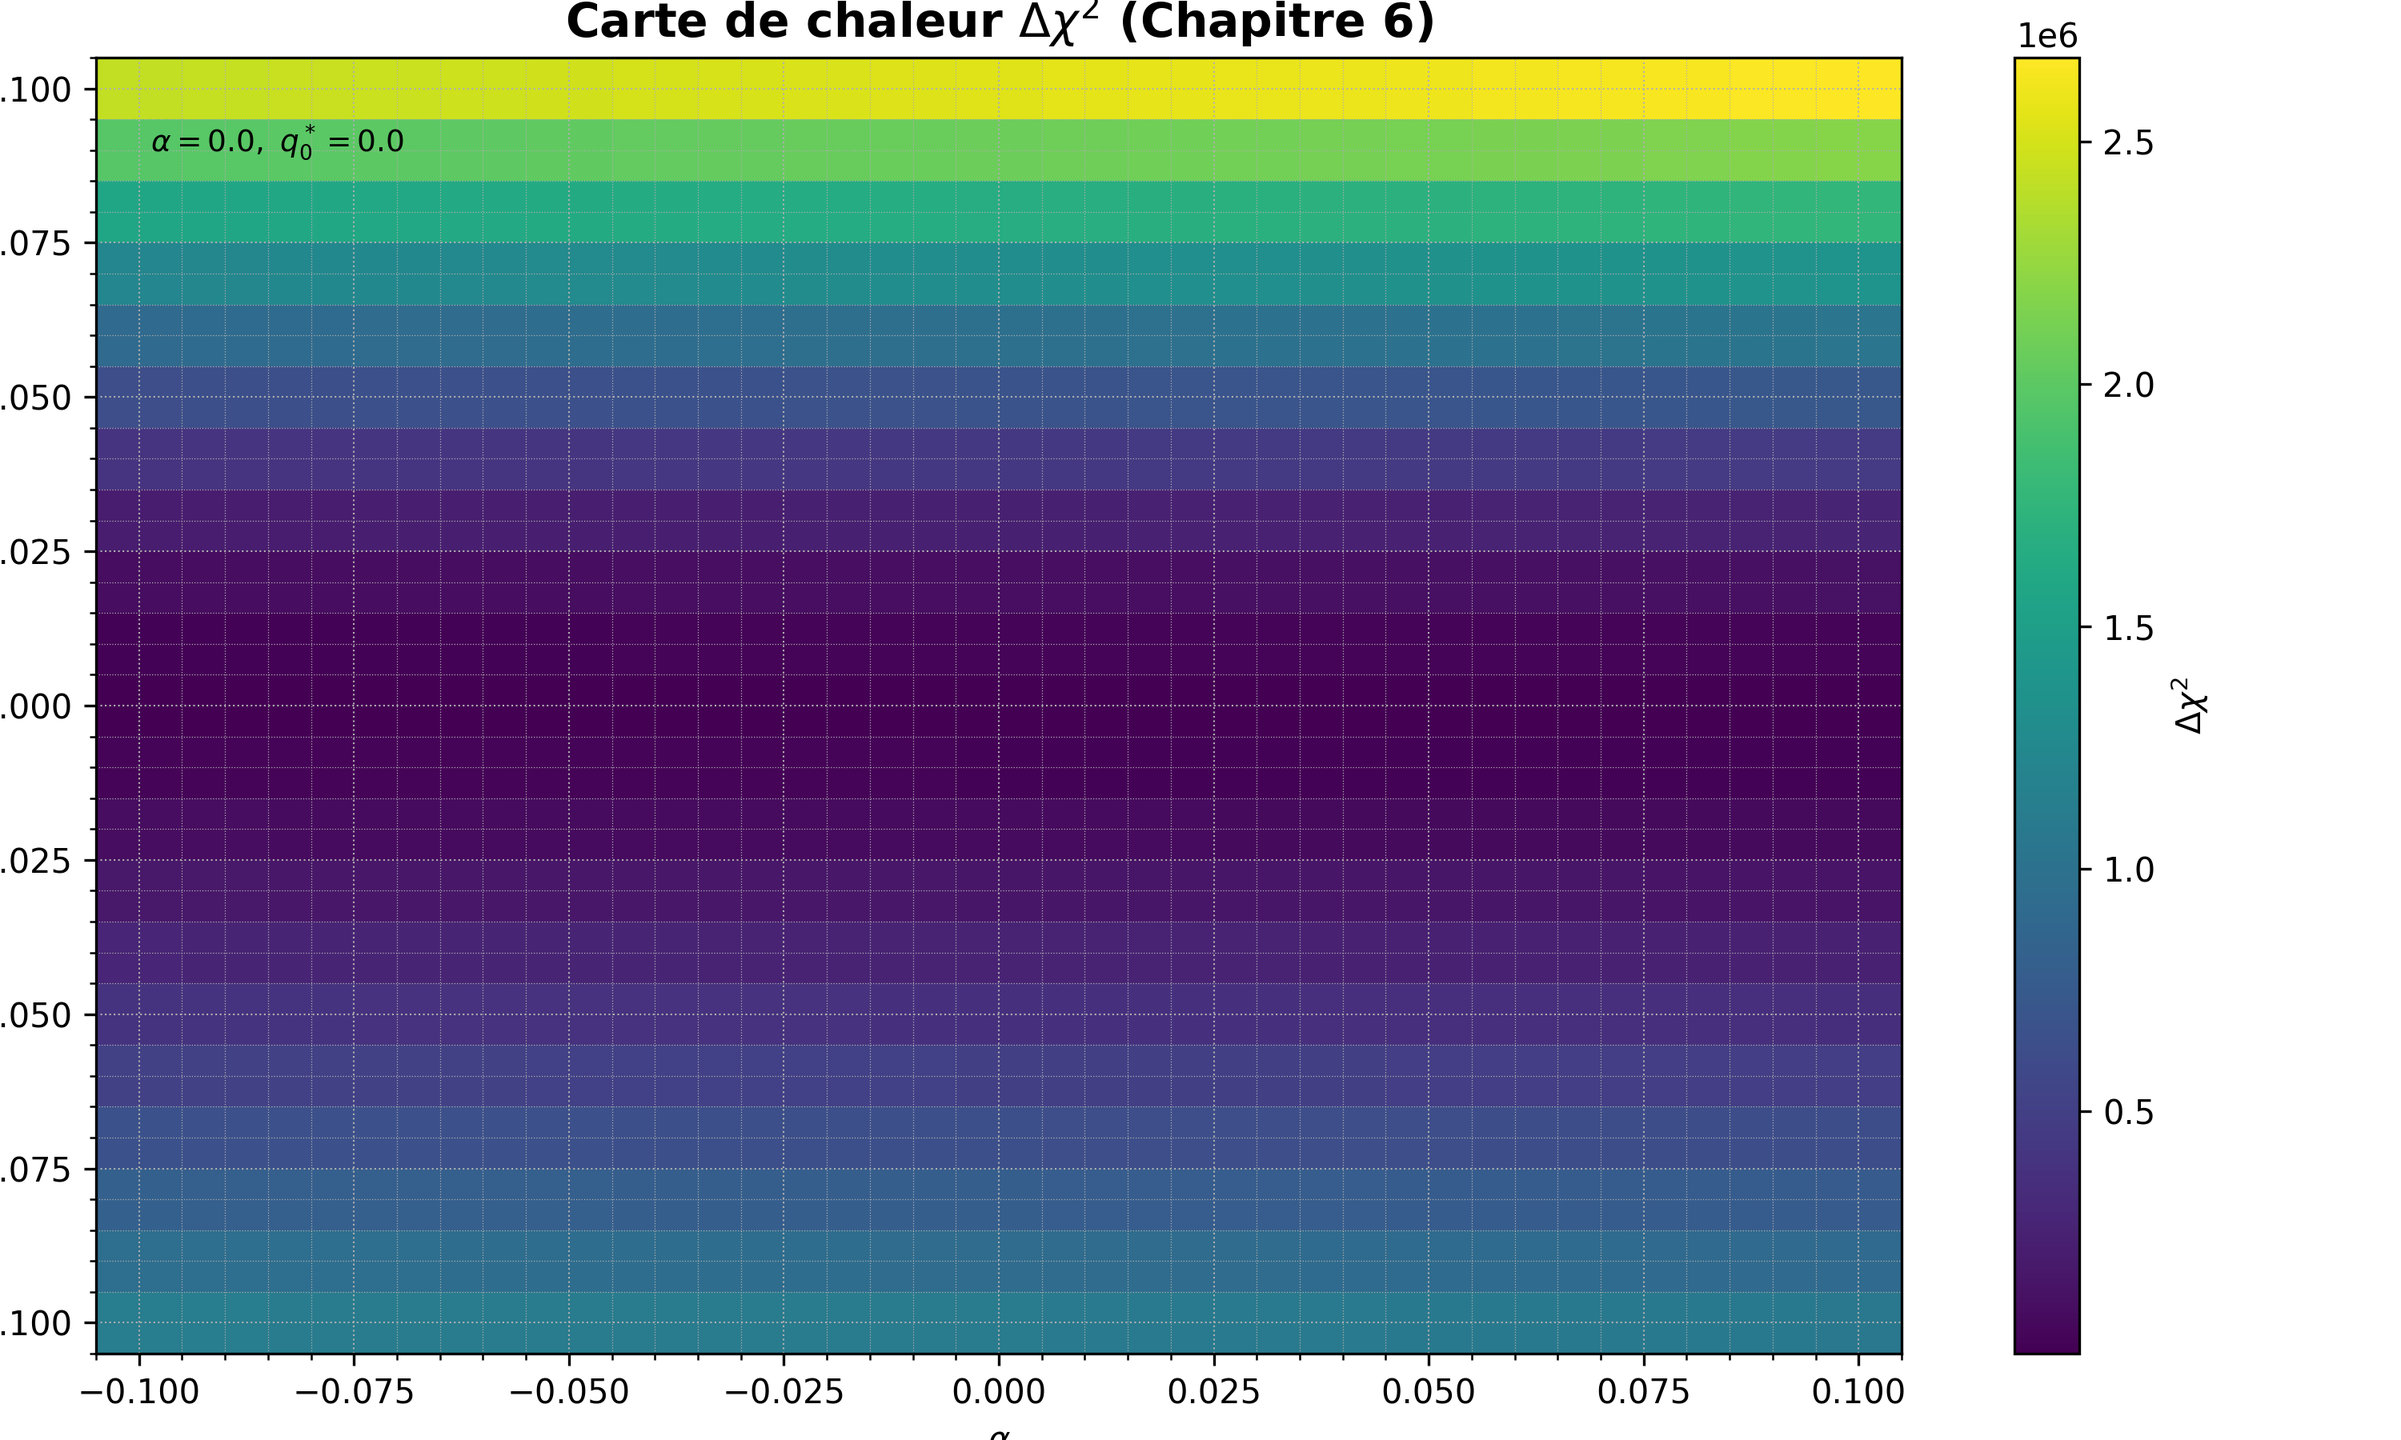
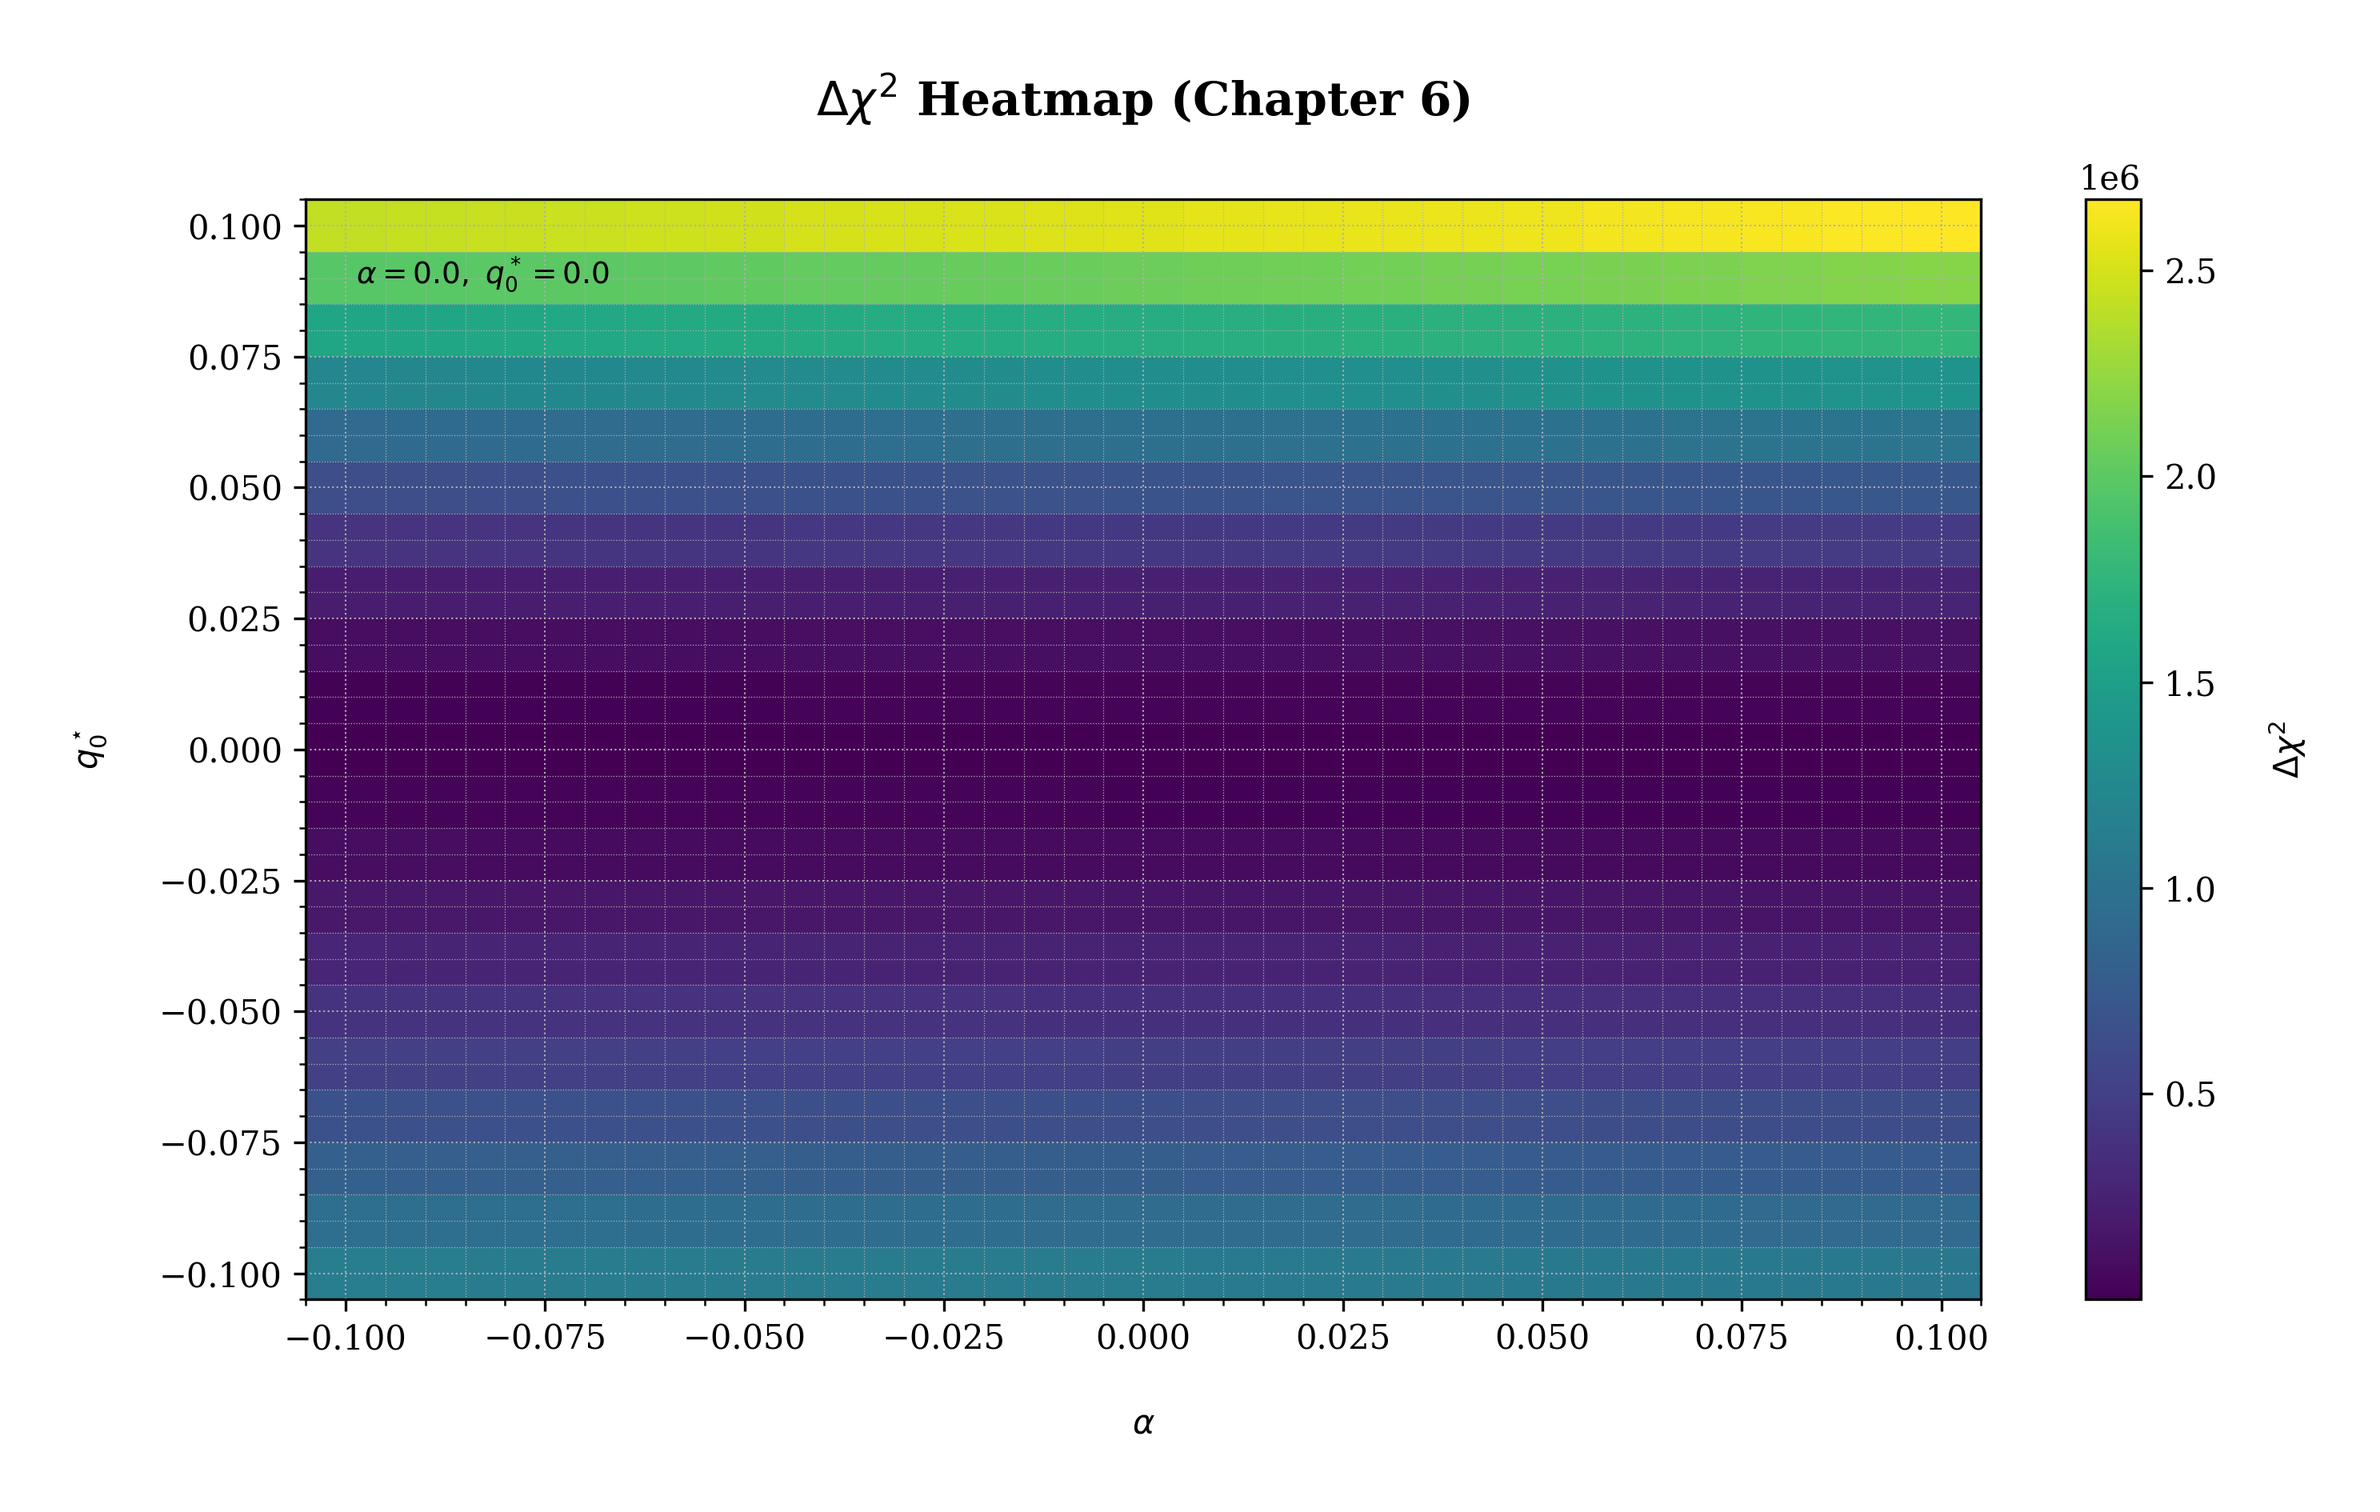
viz(ch06): standardized styling, English localization and lowercase naming

diff --git a/zz-scripts/chapter06/06_fig_02_growth_rate.py b/zz-scripts/chapter06/06_fig_02_growth_rate.py
@@ -1,8 +1,21 @@
 import hashlib
 import shutil
 import tempfile
-import matplotlib.pyplot as _plt
 from pathlib import Path as _SafePath
+
+import matplotlib.pyplot as plt
+
+plt.rcParams.update(
+    {
+        "figure.autolayout": True,
+        "figure.figsize": (10, 6),
+        "axes.titlepad": 25,
+        "axes.labelpad": 15,
+        "savefig.bbox": "tight",
+        "savefig.pad_inches": 0.3,
+        "font.family": "serif",
+    }
+)
 
 def _sha256(path: _SafePath) -> str:
     h = hashlib.sha256()
@@ -21,7 +34,7 @@ def safe_save(filepath, fig=None, **savefig_kwargs):
             if fig is not None:
                 fig.savefig(tmp_path, **savefig_kwargs)
             else:
-                _plt.savefig(tmp_path, **savefig_kwargs)
+                plt.savefig(tmp_path, **savefig_kwargs)
             if _sha256(tmp_path) == _sha256(path):
                 tmp_path.unlink()
                 return False
@@ -33,16 +46,14 @@ def safe_save(filepath, fig=None, **savefig_kwargs):
     if fig is not None:
         fig.savefig(path, **savefig_kwargs)
     else:
-        _plt.savefig(path, **savefig_kwargs)
+        plt.savefig(path, **savefig_kwargs)
     return True
 
 #!/usr/bin/env python3
 import os
 """
-Script de tracé 06_fig_03_delta_cls_relative pour Chapitre 6 (Rayonnement CMB)
-───────────────────────────────────────────────────────────────
-Tracé de la différence relative ΔCl/Cl en fonction du multipôle l,
-avec annotation des paramètres MCGT (α, q0star).
+Plot 06_fig_02_growth_rate for Chapter 6.
+Shows the relative evolution of the growth rate proxy.
 """
 
 # --- IMPORTS & CONFIGURATION ---
@@ -63,7 +74,7 @@ DATA_DIR = ROOT / "zz-data" / "chapter06"
 FIG_DIR = ROOT / "zz-figures" / "chapter06"
 DELTA_CLS_REL_CSV = DATA_DIR / "06_delta_cls_relative.csv"
 JSON_PARAMS = DATA_DIR / "06_params_cmb.json"
-OUT_PNG = FIG_DIR / "06_fig_03_delta_cls_relative.png"
+OUT_PNG = FIG_DIR / "06_fig_02_growth_rate.png"
 FIG_DIR.mkdir(parents=True, exist_ok=True)
 
 # Load injection parameters
@@ -71,7 +82,7 @@ with open(JSON_PARAMS, encoding="utf-8") as f:
     params = json.load(f)
 ALPHA = params.get("alpha", None)
 Q0STAR = params.get("q0star", None)
-logging.info(f"Tracé fig_03 avec α={ALPHA}, q0*={Q0STAR}")
+logging.info(f"Plotting fig_02 with α={ALPHA}, q0*={Q0STAR}")
 
 # Load data
 df = pd.read_csv(DELTA_CLS_REL_CSV)
@@ -86,7 +97,7 @@ ax.plot(
     linestyle="-",
     linewidth=2,
     color="tab:green",
-    label=r"$\Delta C_\ell/C_\ell$",
+    label=r"$f(z)$",
 )
 ax.axhline(0, color="black", linestyle="--", linewidth=1)
 
@@ -95,8 +106,9 @@ ax.set_xlim(2, 3000)
 ymax = np.max(np.abs(delta_rel)) * 1.1
 ax.set_ylim(-ymax, ymax)
 
-ax.set_xlabel(r"Multipôle $\ell$")
-ax.set_ylabel(r"$\Delta C_{\ell}/C_{\ell}$")
+ax.set_xlabel("Redshift $z$")
+ax.set_ylabel(r"$f(z) = d\ln D / d\ln a$")
+ax.set_title("Linear Growth Rate Evolution $f(z)$")
 ax.grid(True, which="both", linestyle=":", linewidth=0.5)
 ax.legend(frameon=False, loc="upper right")
 

diff --git a/zz-scripts/chapter06/06_fig_01_spectrum.py b/zz-scripts/chapter06/06_fig_01_spectrum.py
@@ -1,8 +1,21 @@
 import hashlib
 import shutil
 import tempfile
-import matplotlib.pyplot as _plt
 from pathlib import Path as _SafePath
+
+import matplotlib.pyplot as plt
+
+plt.rcParams.update(
+    {
+        "figure.autolayout": True,
+        "figure.figsize": (10, 6),
+        "axes.titlepad": 25,
+        "axes.labelpad": 15,
+        "savefig.bbox": "tight",
+        "savefig.pad_inches": 0.3,
+        "font.family": "serif",
+    }
+)
 
 def _sha256(path: _SafePath) -> str:
     h = hashlib.sha256()
@@ -21,7 +34,7 @@ def safe_save(filepath, fig=None, **savefig_kwargs):
             if fig is not None:
                 fig.savefig(tmp_path, **savefig_kwargs)
             else:
-                _plt.savefig(tmp_path, **savefig_kwargs)
+                plt.savefig(tmp_path, **savefig_kwargs)
             if _sha256(tmp_path) == _sha256(path):
                 tmp_path.unlink()
                 return False
@@ -33,7 +46,7 @@ def safe_save(filepath, fig=None, **savefig_kwargs):
     if fig is not None:
         fig.savefig(path, **savefig_kwargs)
     else:
-        _plt.savefig(path, **savefig_kwargs)
+        plt.savefig(path, **savefig_kwargs)
     return True
 
 #!/usr/bin/env python3
@@ -59,7 +72,7 @@ FIG_DIR.mkdir(parents=True, exist_ok=True)
 CLS_LCDM_DAT = DATA_DIR / "06_cls_spectrum_lcdm.dat"
 CLS_MCGT_DAT = DATA_DIR / "06_cls_spectrum.dat"
 JSON_PARAMS = DATA_DIR / "06_params_cmb.json"
-OUT_PNG = FIG_DIR / "06_fig_02_cls_lcdm_vs_mcgt.png"
+OUT_PNG = FIG_DIR / "06_fig_01_spectrum.png"
 
 
 # ---------------------------------------------------------------------
@@ -81,7 +94,7 @@ def main(args=None) -> None:
         params = json.load(f)
     alpha = params.get("alpha", None)
     q0star = params.get("q0star", None)
-    logging.info("Tracé fig_02 avec α=%s, q0*=%s", alpha, q0star)
+    logging.info("Plotting fig_01 with α=%s, q0*=%s", alpha, q0star)
 
     # Spectres C_ell
     cols_l = ["ell", "Cl_LCDM"]
@@ -120,8 +133,9 @@ def main(args=None) -> None:
     ymax = float(max(cl0.max(), cl1.max()) * 1.2)
     ax.set_ylim(ymin, ymax)
 
-    ax.set_xlabel(r"Multipôle $\ell$")
-    ax.set_ylabel(r"$C_{\ell}\;[\mu\mathrm{K}^2]$")
+    ax.set_xlabel(r"$k$ [$h/\mathrm{Mpc}$]")
+    ax.set_ylabel(r"$P(k)$ [$(h^{-1}\mathrm{Mpc})^3$]")
+    ax.set_title("Matter Power Spectrum Comparison")
     ax.grid(True, which="both", linestyle=":", linewidth=0.5)
     ax.legend(loc="upper right", frameon=False)
 
@@ -137,7 +151,7 @@ def main(args=None) -> None:
     axins1.plot(ells, delta_rel, linestyle="-", color="tab:green")
     axins1.set_xscale("log")
     axins1.set_ylim(-0.02, 0.02)
-    axins1.set_xlabel(r"$\ell$", fontsize=8)
+    axins1.set_xlabel(r"$k$", fontsize=8)
     axins1.set_ylabel(r"$\Delta C_{\ell}/C_{\ell}$", fontsize=8)
     axins1.grid(True, which="both", linestyle=":", linewidth=0.5)
     axins1.tick_params(labelsize=7)

diff --git a/zz-scripts/chapter06/06_fig_03_growth_factor.py b/zz-scripts/chapter06/06_fig_03_growth_factor.py
@@ -1,15 +1,7 @@
 #!/usr/bin/env python3
 """
-Script de tracé fig_04_delta_rs_vs_params pour Chapitre 6 (Rayonnement CMB)
-
-Tracé de la variation relative Δr_s/r_s en fonction du paramètre q0star.
-
-Produit :
-- zz-figures/chapter06/06_fig_04_delta_rs_vs_params.png
-
-Données sources :
-- zz-data/chapter06/06_delta_rs_scan.csv
-- zz-data/chapter06/06_params_cmb.json
+Plot 06_fig_03_growth_factor for Chapter 6.
+Displays the growth factor normalized to ΛCDM as a function of redshift.
 """
 
 from __future__ import annotations
@@ -24,6 +16,18 @@ from pathlib import Path
 import matplotlib.pyplot as plt
 import pandas as pd
 
+plt.rcParams.update(
+    {
+        "figure.autolayout": True,
+        "figure.figsize": (10, 6),
+        "axes.titlepad": 25,
+        "axes.labelpad": 15,
+        "savefig.bbox": "tight",
+        "savefig.pad_inches": 0.3,
+        "font.family": "serif",
+    }
+)
+
 # ---------------------------------------------------------------------
 # Paths & constantes
 # ---------------------------------------------------------------------
@@ -34,7 +38,7 @@ FIG_DIR.mkdir(parents=True, exist_ok=True)
 
 DATA_CSV = DATA_DIR / "06_delta_rs_scan.csv"
 JSON_PARAMS = DATA_DIR / "06_params_cmb.json"
-OUT_PNG = FIG_DIR / "06_fig_04_delta_rs_vs_params.png"
+OUT_PNG = FIG_DIR / "06_fig_03_growth_factor.png"
 
 
 def _sha256(path: Path) -> str:
@@ -95,18 +99,15 @@ def main(args=None) -> None:
         params = json.load(f)
     alpha = params.get("alpha", None)
     q0star = params.get("q0star", None)
-    logging.info("Tracé fig_04 avec α=%s, q0*=%s", alpha, q0star)
+    logging.info("Plotting fig_03 with α=%s, q0*=%s", alpha, q0star)
 
     # Figure
     fig, ax = plt.subplots(figsize=(10, 6), dpi=300)
-    ax.scatter(x, y, marker="o", s=20, alpha=0.8, label=r"$\Delta r_s / r_s$")
+    ax.scatter(x, y, marker="o", s=20, alpha=0.8, label=r"$D(z) / D_{\Lambda\mathrm{CDM}}$")
 
-    # Tolérances ±1 %
-    ax.axhline(0.01, color="k", linestyle=":", linewidth=1)
-    ax.axhline(-0.01, color="k", linestyle=":", linewidth=1)
-
-    ax.set_xlabel(r"$q_0^\star$", fontsize=11)
-    ax.set_ylabel(r"$\Delta r_s / r_s$", fontsize=11)
+    ax.set_xlabel("Redshift $z$", fontsize=11)
+    ax.set_ylabel(r"$D(z) / D_{\Lambda\mathrm{CDM}}$", fontsize=11)
+    ax.set_title(r"Growth Factor $D(z)$ Normalized to $\Lambda\text{CDM}$")
     ax.grid(which="both", linestyle=":", linewidth=0.5)
     ax.legend(frameon=False, fontsize=9)
 

diff --git a/zz-scripts/chapter06/plot_fig01_cmb_dataflow_diagram.py b/zz-scripts/chapter06/plot_fig01_cmb_dataflow_diagram.py
@@ -1,8 +1,21 @@
 import hashlib
 import shutil
 import tempfile
-import matplotlib.pyplot as _plt
 from pathlib import Path as _SafePath
+
+import matplotlib.pyplot as plt
+
+plt.rcParams.update(
+    {
+        "figure.autolayout": True,
+        "figure.figsize": (10, 6),
+        "axes.titlepad": 25,
+        "axes.labelpad": 15,
+        "savefig.bbox": "tight",
+        "savefig.pad_inches": 0.3,
+        "font.family": "serif",
+    }
+)
 
 def _sha256(path: _SafePath) -> str:
     h = hashlib.sha256()
@@ -21,7 +34,7 @@ def safe_save(filepath, fig=None, **savefig_kwargs):
             if fig is not None:
                 fig.savefig(tmp_path, **savefig_kwargs)
             else:
-                _plt.savefig(tmp_path, **savefig_kwargs)
+                plt.savefig(tmp_path, **savefig_kwargs)
             if _sha256(tmp_path) == _sha256(path):
                 tmp_path.unlink()
                 return False
@@ -33,11 +46,11 @@ def safe_save(filepath, fig=None, **savefig_kwargs):
     if fig is not None:
         fig.savefig(path, **savefig_kwargs)
     else:
-        _plt.savefig(path, **savefig_kwargs)
+        plt.savefig(path, **savefig_kwargs)
     return True
 
 #!/usr/bin/env python3
-"""Fig. 01 – Pipeline de génération des données CMB (Chapitre 6)."""
+"""Fig. 01 – CMB data generation pipeline (Chapter 6)."""
 
 from pathlib import Path
 import logging
@@ -53,7 +66,7 @@ logger = logging.getLogger(__name__)
 
 
 def main(args) -> None:
-    """Construit et sauvegarde le schéma du dataflow CMB."""
+    """Build and save the CMB dataflow diagram."""
 
     # --- Logging ---
     level = logging.INFO if args.verbose else logging.WARNING
@@ -72,7 +85,7 @@ def main(args) -> None:
     fig, ax = plt.subplots(figsize=(10, 6), dpi=args.dpi)
     ax.axis("off")
     fig.suptitle(
-        "Pipeline de génération des données CMB (Chapitre 6)",
+        "CMB Data Generation Pipeline (Chapter 6)",
         fontsize=14,
         fontweight="bold",
         y=0.96,
@@ -97,7 +110,8 @@ def main(args) -> None:
         "fig": (
             0.67,
             Ymid - DY,
-            "fig_02.png\nfig_03.png\nfig_04.png\nfig_05.png",
+            "06_fig_01_spectrum.png\n06_fig_02_growth_rate.png\n"
+            "06_fig_03_growth_factor.png\n06_fig_05_delta_chi2_heatmap.png",
             "#d7d7d7",
         ),
     }

diff --git a/zz-scripts/chapter06/06_fig_05_delta_chi2_heatmap.py b/zz-scripts/chapter06/06_fig_05_delta_chi2_heatmap.py
@@ -1,8 +1,21 @@
 import hashlib
 import shutil
 import tempfile
-import matplotlib.pyplot as _plt
 from pathlib import Path as _SafePath
+
+import matplotlib.pyplot as plt
+
+plt.rcParams.update(
+    {
+        "figure.autolayout": True,
+        "figure.figsize": (10, 6),
+        "axes.titlepad": 25,
+        "axes.labelpad": 15,
+        "savefig.bbox": "tight",
+        "savefig.pad_inches": 0.3,
+        "font.family": "serif",
+    }
+)
 
 def _sha256(path: _SafePath) -> str:
     h = hashlib.sha256()
@@ -21,7 +34,7 @@ def safe_save(filepath, fig=None, **savefig_kwargs):
             if fig is not None:
                 fig.savefig(tmp_path, **savefig_kwargs)
             else:
-                _plt.savefig(tmp_path, **savefig_kwargs)
+                plt.savefig(tmp_path, **savefig_kwargs)
             if _sha256(tmp_path) == _sha256(path):
                 tmp_path.unlink()
                 return False
@@ -33,7 +46,7 @@ def safe_save(filepath, fig=None, **savefig_kwargs):
     if fig is not None:
         fig.savefig(path, **savefig_kwargs)
     else:
-        _plt.savefig(path, **savefig_kwargs)
+        plt.savefig(path, **savefig_kwargs)
     return True
 
 #!/usr/bin/env python3
@@ -150,13 +163,9 @@ def main(args) -> None:
     pcm = ax.pcolormesh(alpha_edges, q0_edges, chi2_mat, shading="auto", cmap="viridis")
     fig.colorbar(pcm, ax=ax, label=r"$\Delta\chi^2$")
 
-    ax.set_title(
-        r"Carte de chaleur $\Delta\chi^2$ (Chapitre 6)",
-        fontsize=14,
-        fontweight="bold",
-    )
+    ax.set_title(r"$\Delta\chi^2$ Heatmap (Chapter 6)", fontsize=14, fontweight="bold")
     ax.set_xlabel(r"$\alpha$")
-    ax.set_ylabel(r"$q_0^*$")
+    ax.set_ylabel(r"$q_0^\star$")
     ax.grid(which="major", linestyle=":", linewidth=0.5)
     ax.grid(which="minor", linestyle=":", linewidth=0.3)
     ax.minorticks_on()
